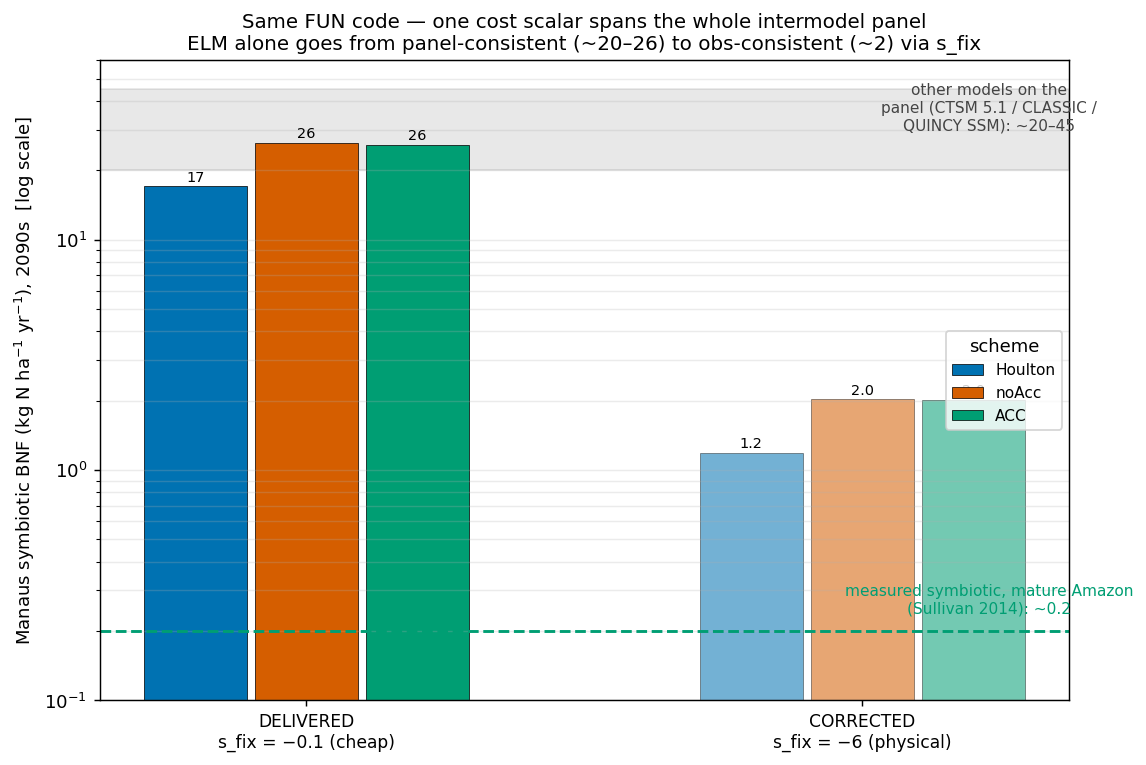
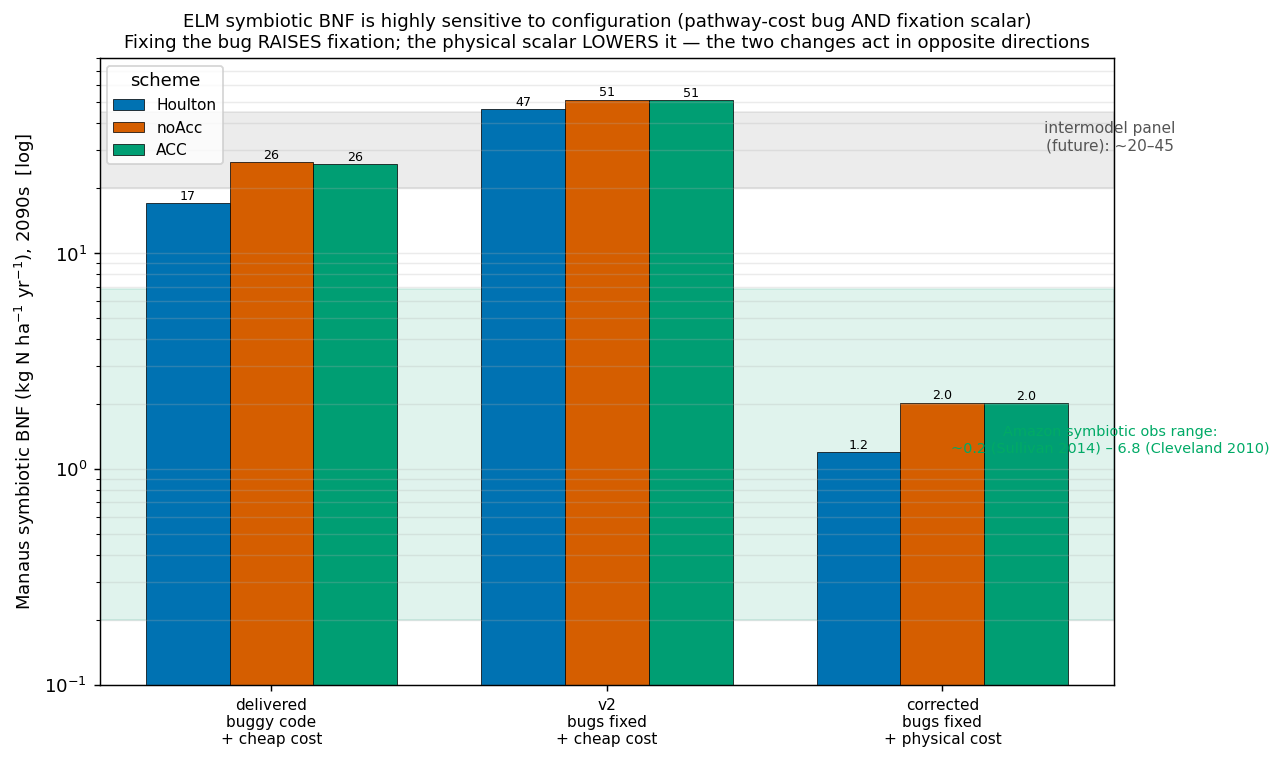
Correct misattributed Cleveland 2010 ref, sensitivity overclaims, and ACC recommendation
- References/Step5: the doi:10.1007/s10533-009-9392-y paper is Cleveland, Houlton, Neill, Reed,
  Townsend & Wang (2010), NOT 'Cusack 2009'. It estimates symbiotic BNF ~4.5 (mass balance)
  / ~6.8 (modeling) kg N/ha/yr in Rondonia -- HIGHER than Sullivan ~0.2, not corroborating it.
  Amazon symbiotic estimates span a wide range (~0.2-6.8); ELM corrected ~2 sits within it.
- Step 4 + figure: drop 'one scalar brackets the panel'. Show the honest 3-config decomposition
  (delivered 17-26 -> v2 46-51 -> corrected 1.2-2.0): bug-fix RAISES fixation, scalar LOWERS it.
  Frame as configuration sensitivity, not a scalar-only effect or a verdict on the intermodel spread.
- Bonanza row: DeLuca does NOT establish ~0 vascular symbiotic; softened.
- ACC recommendation: do not prescribe identical temperature inputs; acclimation (running-mean)
  and reaction (instantaneous) temperatures may legitimately differ. Confirm intended roles first.

diff --git a/docs/POST_DELIVERY_CORRECTIONS.md b/docs/POST_DELIVERY_CORRECTIONS.md
@@ -80,13 +80,16 @@ Figure: [sfix_sweep_brackets_panel.png](../analysis/figs/sfix_sweep_brackets_pan
 "Same FUN code" only means the same fixation-cost *subroutine*. The fixation *flux* is an
 **emergent** outcome of an optimization (buy N from the cheapest source until demand is met), so
 it depends on (a) fixation cost, (b) the cost of **every competing pathway**, and (c) how
-**N-limited** the ecosystem is. Evidence: **ELM's own** Manaus symbiotic BNF spans ~2 → ~26
-kg/ha just by flipping s_fix (−6 → −0.1), bracketing essentially the whole intermodel panel
-(~20–45). ELM ≠ CLM5 in the surrounding machinery (ELM runs **FUN-P** phosphorus co-limitation;
-different soil BGC/mineralization; the #2120 params; spinup). So the intermodel spread is
-plausibly an **emergent-property difference (N/P limitation + parameterization within a shared
-FUN framework), not an algorithmic one** — a hypothesis to test with each model's config, not a
-verdict.
+**N-limited** the ecosystem is. Evidence: **ELM's own** Manaus symbiotic BNF (future 2090s)
+spans ~1.2 (corrected: bugs fixed + physical cost) → ~46–51 (v2: bugs fixed + cheap cost) →
+~17–26 (delivered: buggy + cheap cost) — an **order-of-magnitude sensitivity to configuration**,
+where the pathway-bug fix *raises* fixation and the physical scalar *lowers* it (opposite
+directions; see [sfix_sweep_brackets_panel.png](../analysis/figs/sfix_sweep_brackets_panel.png)).
+ELM ≠ CLM5 in the surrounding machinery too (ELM runs **FUN-P** phosphorus co-limitation;
+different soil BGC/mineralization; the #2120 params; spinup). **What this shows:** the flux is set
+by fixation cost *and* competing N-acquisition pathways, so both need examination. **What it does
+NOT show:** it does not identify the cause of the intermodel spread or rule out implementation
+differences — that needs each model's config (a hypothesis to test, not a verdict).
 
 ---
 
@@ -120,8 +123,8 @@ declare a model winner.** Four reasons the strong claim fails:
 ### Observational context (leads, several still need primary verification)
 | site | relevant studies | rough magnitude | status |
 |---|---|---|---|
-| Manaus (mature tropical) | Sullivan 2014 (symbiotic); Cusack 2009 (indirect); terra-firme oxisol root-assoc. | symbiotic low (~0.2); total free-living-dominated (~2–15) | Sullivan value unverified for this stand/scale |
-| Bonanza (boreal upland) | DeLuca 2002 (feather moss 1.5–2.0); Ruess (alder ~6.6, different niche) | free-living ~2; vascular symbiotic ~0 in mature black spruce | niche-dependent; ELM total consistent, not validated |
+| Manaus (mature tropical) | Sullivan 2014; Cleveland et al. 2010 (indirect, Rondônia) | symbiotic estimates span a **wide range**: ~0.2 (Sullivan) to ~4.5–6.8 (Cleveland 2010). ELM corrected ~1.5–2.1 sits **within** it | methods/scale/location differ; no single benchmark verified for this stand |
+| Bonanza (boreal upland) | DeLuca 2002 (feather moss 1.5–2.0); alder chronosequence (different niche) | feather-moss free-living ~1.5–2; ELM total ~2.1 | DeLuca does **not** establish zero vascular symbiotic fixation; ELM's upland column does not represent alder; consistent, not validated |
 | Harvard (temperate) | no site BNF measurement (record is N-deposition); temperate BNF spans orders of magnitude | essentially unconstrained | cannot adjudicate |
 
 ### Honest assessment (do not overstate in the manuscript)
@@ -177,8 +180,12 @@ Verification status noted where a value/claim still needs primary confirmation.
   substantial human alteration of the tropical N cycle. *PNAS* 111, 8101–8106.
   doi:10.1073/pnas.1320646111. *(Quoted ~0.2 kg N/ha/yr symbiotic; sampling scope/scale for the
   modeled Manaus stand UNVERIFIED here.)*
-- Cusack, D.F., et al. (2009). Using indirect methods to constrain symbiotic N fixation rates: a
-  case study from an Amazonian rain forest. *Biogeochemistry*. doi:10.1007/s10533-009-9392-y.
+- Cleveland, C.C., Houlton, B.Z., Neill, C., Reed, S.C., Townsend, A.R., Wang, Y. (2010). Using
+  indirect methods to constrain symbiotic N fixation rates: a case study from an Amazonian rain
+  forest. *Biogeochemistry*. doi:10.1007/s10533-009-9392-y. *(Estimates symbiotic BNF ~4.5 kg
+  N/ha/yr by mass balance and ~6.8 by modeling, Rondônia — substantially HIGHER than Sullivan's
+  ~0.2. Amazon symbiotic estimates therefore span a wide range, not a single low value. Earlier
+  drafts misattributed this as "Cusack 2009" and as corroborating the low value — corrected.)*
 - DeLuca, T.H., et al. (2002). Quantifying nitrogen-fixation in feather moss carpets of boreal
   forests. *Nature* 419, 917–920. doi:10.1038/nature01051. *(Feather-moss niche ~1.5–2.0 kg
   N/ha/yr; does not establish zero vascular symbiotic fixation.)*

diff --git a/docs/ACC_TEMPERATURE_CONFOUND.md b/docs/ACC_TEMPERATURE_CONFOUND.md
@@ -38,8 +38,15 @@ SOILTEMP30 accumulator", but the code on the next line uses `soila10` (**10-day*
 averaging window (10 vs 30 day) should be confirmed.
 
 ## Recommended resolution (before calling ACC/noAcc a clean acclimation result)
-Either (a) feed all three schemes the *same* temperature input (either all per-layer instantaneous
-`tc_soisno(c,j)`, or all the same running-mean), so the contrast isolates the formulation; or
-(b) keep as-is but document the confound explicitly in the manuscript methods and confine
-acclimation claims to what the design can support. Resolving this outranks any further
-observational comparison.
+Do **not** simply force identical temperature inputs — acclimation and the instantaneous reaction
+rate may *legitimately* use different temperatures. Acclimation of Topt/Tmin is expected to track a
+running-mean (growth) temperature, whereas the instantaneous fixation *reaction rate* should be
+evaluated at instantaneous T. The real issue is that the ACC routine currently uses the 10-day mean
+`tc_soila10` for the **whole** calculation (both the acclimated optimum **and** the reaction
+evaluation), while noAcc/Houlton evaluate the reaction at instantaneous `tc_soisno(c,j)`.
+
+Resolution: confirm with the scheme designer (Tom / Bytnerowicz) the **intended temperature roles**
+— which temperature should control *acclimation*, and which should evaluate *fixation activity* —
+then make the ACC↔noAcc comparison consistent for whatever is being isolated (and pin down the
+10- vs 30-day window). Until then, present noAcc-vs-Houlton as the clean contrast and treat the ACC
+arm's temperature basis as provisional. Resolving this outranks further observational comparison.
